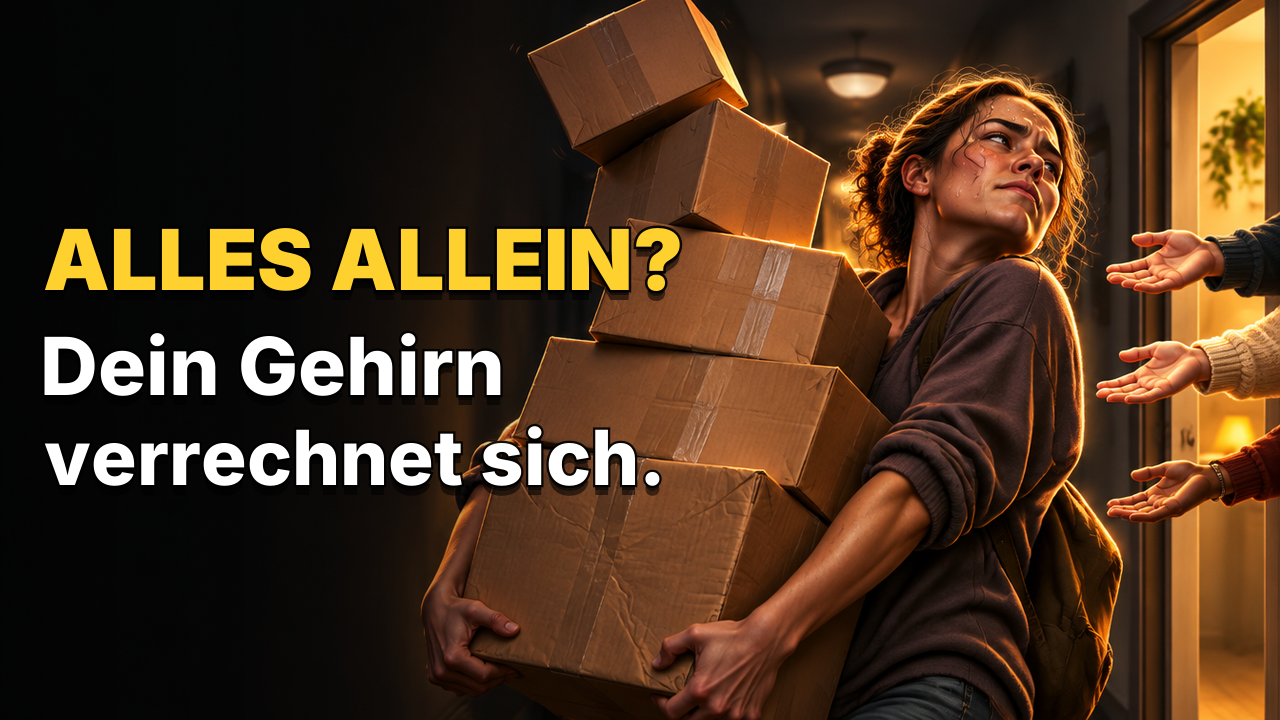
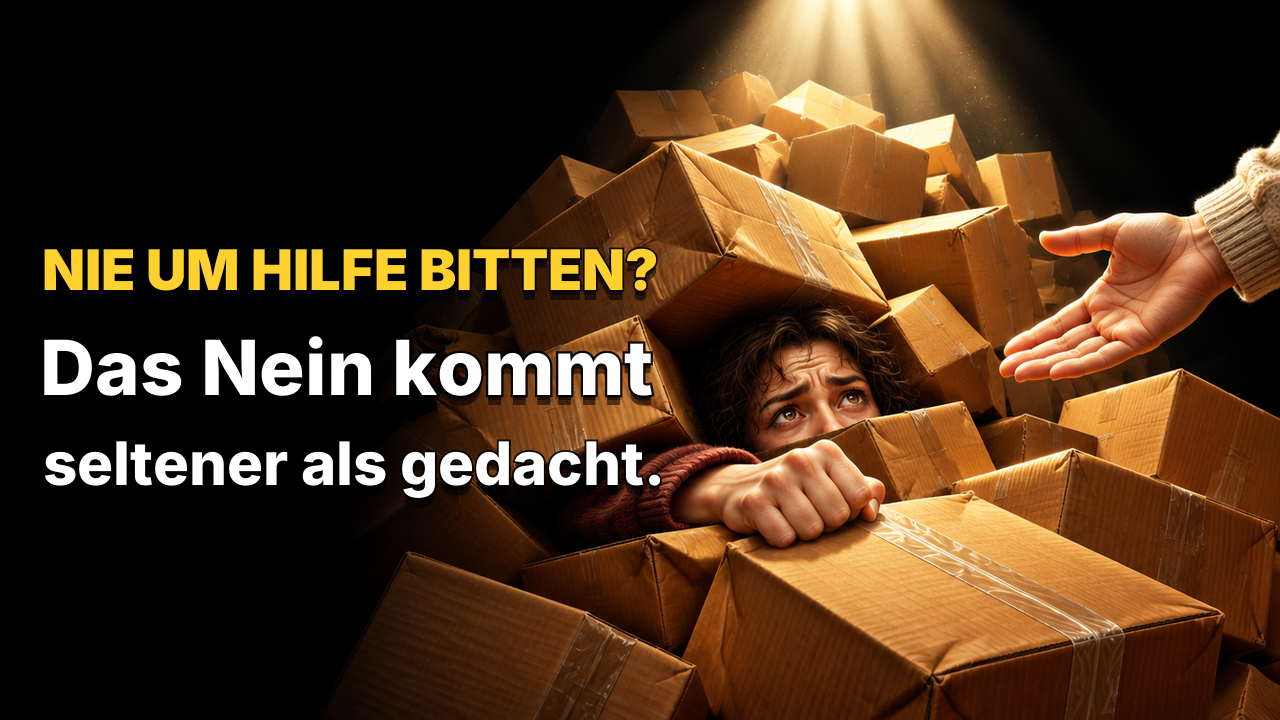
Video 003: neues Thumbnail (Laurins Wahl) + Lesson Thumbnail-Text
Claude-Session: https://claude.ai/code/session_014Cq61k1MNdf2Eth3HpSwpF

diff --git a/videos/003-nie-um-hilfe-bitten/INFO.md b/videos/003-nie-um-hilfe-bitten/INFO.md
@@ -1,5 +1,5 @@
 # 003 – Die Psychologie von Menschen, die nie um Hilfe bitten
-Titel: „Warum Menschen, die nie um Hilfe bitten, sich so oft irren“ (vidIQ-Score 81; Alternativen 80 / 77) · Länge 10:30 · Thumbnail: thumbnail.png (Variante A „ALLES ALLEIN? / Dein Gehirn / verrechnet sich.“; B = thumb_b.png verworfen)
+Titel: „Warum Menschen, die nie um Hilfe bitten, sich so oft irren“ (vidIQ-Score 81; Alternativen 80 / 77) · Länge 10:30 · Thumbnail: thumbnail.png = thumb_c1.png („NIE UM HILFE BITTEN? / Das Nein kommt / seltener als gedacht.“, von Laurin gewählt; A, B, D–J verworfen)
 Status 21.11.2026: Entwurf bei vidIQ (postId 47ef3c0c-ddf9-4b5a-81b5-e365d93bed3d), wartet auf Laurins Freigabe.
 Bau: `DM_SFX=<ordner mit assets/sfx + bubble_pop/flare/short_whip aus bibliothek/denkmuster> python3 scenes.py` (engine/kit.py + engine/bausteine.py).
 `python3 scenes.py --drehbuch` erzeugt bilddrehbuch.json aus den S(...)-Einstellungen, Prüfung mit engine/bilddrehbuch.py.

diff --git a/LESSONS.md b/LESSONS.md
@@ -62,3 +62,4 @@ Grundlage: Auswertung erfolgreicher Ausreißer-Videos in allen 5 Nischen (vidIQ)
 - kit.py-Endmix landete bei True Peak +0,1 dBTP → danach zweistufig loudnorm I=−14/TP=−2 (Ergebnis −14,5 LUFS, −2,4 dBTP).
 - Goldsmith-Sounds (paper_slide, sub_drop, slap) aus EFFEKTE.md durften aus der Sandbox nicht kopiert werden (Zugriff verweigert) → stattdessen eigene Sounds (stift_klick beim Durchstreichen, pop beim Einkreisen). Laurin: bitte diese drei Sounds in assets/sfx übernehmen, wenn sie für Denkmuster gelten sollen.
 - Kosten: 10 Kapitel Helena = 27,6 Credits, Thumbnail 1,5 → ~29 Credits.
+- Thumbnail 003 (Laurin 21.11.2026): „ALLES ALLEIN?“ abgelehnt („check ich nicht“, „als Zuschauer würde ich nicht verstehen, worum es geht“). Gewählt: Kistenberg + helfende Hand, Text „NIE UM HILFE BITTEN? / Das Nein kommt / seltener als gedacht.“ → Regel: Zeile 1 nennt das Thema wörtlich (wie im Titel), keine Rätsel-Kurzformel.
